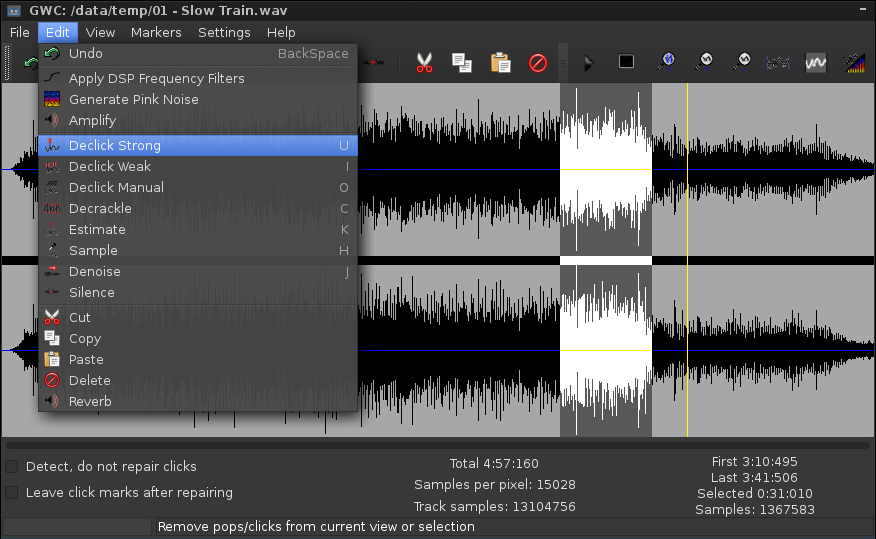
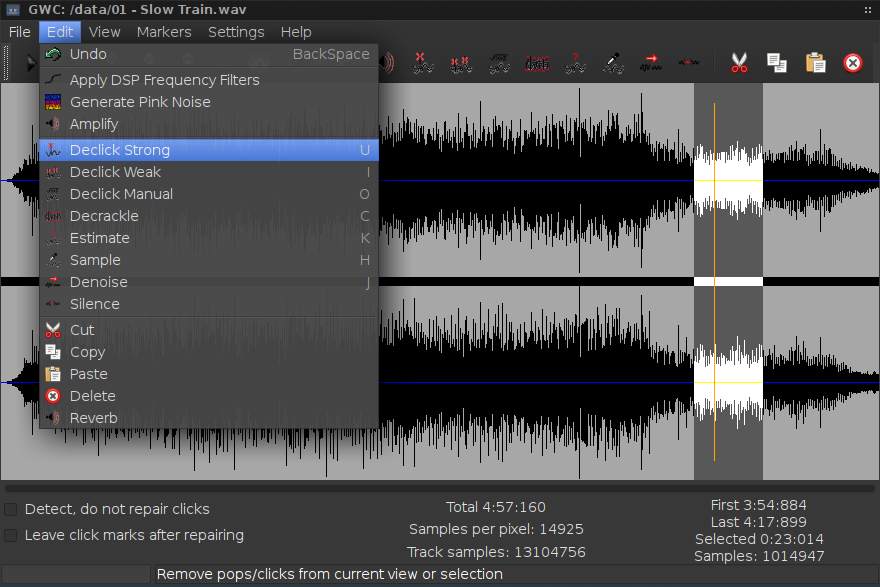
position cursor fixes
fix: set current position by rightclick is now restricted to
       the region of interest
  fix: Open File - allow WAV only, display errors in the statusbar
  change: position cursor is now shorter and in orange color

Changed region(s): [[0.0, 0.0, 1.0, 1.0], [0.0308, 0.8609, 0.2774, 0.9202], [0.9863, 0.0, 1.0, 0.0297]]

diff --git a/src/drawing.c b/src/drawing.c
@@ -66,6 +66,7 @@ GdkColor *orange_color = &orange_gdk_color ;
 GdkColor *white_color = &white_gdk_color ;
 GdkColor *grey_color = &grey_gdk_color ;
 GdkColor *black_color = &black_gdk_color ;
+GdkColor *cursor_color = &orange_gdk_color;
 
 /*
 #define highlight_color white_color
@@ -132,14 +133,13 @@ draw_a_line(GdkGC *gc, gint x1, gint y1, gint x2, gint y2, GdkColor *color, int 
        }
 }
 
-/* a utility function to draw a line */
+// paint playback position cursor
 static void
-draw_a_cursor_line(GdkGC *gc,
-	    gint x1, gint y1, gint x2, gint y2, GdkColor *color, int end_shapes)
+draw_cursor_line(GdkGC *gc, gint x, gint l, GdkColor *color)
 {
 	gdk_gc_set_foreground(gc, color) ;
-        if (x1 > SHRT_MIN && x1 < SHRT_MAX)
- 	   gdk_draw_line(highlight_pixmap, gc, x1,y1,x2,y2) ;
+        if (x > SHRT_MIN && x < SHRT_MAX)
+ 	   gdk_draw_line(highlight_pixmap, gc, x, 20, x, l-20);
 
 }
 
@@ -275,12 +275,18 @@ int audio_area_button_event(GtkWidget *c, GdkEventButton *event, gpointer data)
 {
     d_print("Event-type: %ld, button: %ld\n", event->type, event->button);
     if (event->type == GDK_BUTTON_PRESS  &&  event->button == 3) {
-      /* single click with the right mouse button */
+      // single click with the right mouse button
       if (audio_playback == FALSE) {
 	// set playback position
-	playback_startplay_position = pixel_to_sample(&audio_view, (int)event->x);
-	audio_view.cursor_position = playback_startplay_position;
-	main_redraw(TRUE, TRUE);
+	long new_position = pixel_to_sample(&audio_view, (int)event->x);
+	long first, last;
+	get_region_of_interest(&first, &last, &audio_view);
+	// only allow to set position within the region of interest
+	if ((new_position >= first) && (new_position < last)) {
+		playback_startplay_position = new_position;
+		audio_view.cursor_position = playback_startplay_position;
+		main_redraw(TRUE, TRUE);
+	}
       }
     } else if (event->type == GDK_BUTTON_PRESS  &&  event->button == 1) {
 	first_pick_x = last_pick_x = (int)event->x ;
@@ -806,17 +812,12 @@ ly2_tbl[0] = 99999999;
     view_scale =  view_scale_save ;
 }
 
-void paint_screen_with_highlight(struct view *v, GtkWidget *da, int y1, int y2, int cursor_flag)
+void paint_screen_with_highlight(struct view *v, GtkWidget *da, int y1, int y2)
 {
     int x = sample_to_pixel(v, v->cursor_position) ;
     GdkGC *MyGC = gdk_gc_new(da->window) ;
 
-    gdk_draw_pixmap(highlight_pixmap,
-	   da->style->fg_gc[GTK_WIDGET_STATE (da)],
-	   audio_pixmap,
-	   0,0,
-	   0,0,
-	   v->canvas_width, v->canvas_height);
+    gdk_draw_pixmap(highlight_pixmap, da->style->fg_gc[GTK_WIDGET_STATE (da)], audio_pixmap, 0, 0, 0, 0, v->canvas_width, v->canvas_height);
 
     if(v->selection_region == TRUE) {
 	gint minx = region_select_min_x ;
@@ -828,36 +829,14 @@ void paint_screen_with_highlight(struct view *v, GtkWidget *da, int y1, int y2, 
 	else
 	    draw_a_highlight_rect(MyGC, minx, 0, maxx, v->canvas_height-1, highlight_color) ;
     }
-    //if(cursor_flag == TRUE) {
-/*  	draw_a_cursor_line(MyGC, x-4, y1+4, x-4, y2-4, yellow_color, 0) ;  */
-/*  	draw_a_cursor_line(MyGC, x-3, y1+3, x-3, y2-3, yellow_color, 0) ;  */
-/*  	draw_a_cursor_line(MyGC, x-2, y1+2, x-2, y2-2, yellow_color, 0) ;  */
-/*  	draw_a_cursor_line(MyGC, x-1, y1+1, x-1, y2-1, yellow_color, 0) ;  */
-/*  	draw_a_cursor_line(MyGC, x+0, y1+0, x+0, y2+0, yellow_color, 0) ;  */
-        last_cursor_x = x;
-        /**************** This is also in redraw *******************/
-        gdk_draw_pixmap(cursor_pixmap,
-	   da->style->fg_gc[GTK_WIDGET_STATE (da)],
-	   highlight_pixmap,
-	   x,0,
-	   0,0,
-	   1, v->canvas_height);
-	draw_a_cursor_line(MyGC, x+0, 0, x+0, v->canvas_height-1, yellow_color, 0) ;
-/*  	draw_a_cursor_line(MyGC, x+1, y1+1, x+1, y2-1, yellow_color, 0) ;  */
-/*  	draw_a_cursor_line(MyGC, x+2, y1+2, x+2, y2-2, yellow_color, 0) ;  */
-/*  	draw_a_cursor_line(MyGC, x+3, y1+3, x+3, y2-3, yellow_color, 0) ;  */
-/*  	draw_a_cursor_line(MyGC, x+4, y1+4, x+4, y2-4, yellow_color, 0) ;  */
-/*
-    } else {
-       last_cursor_x = -1;   
-    }
-*/
-    gdk_draw_pixmap(da->window,
-	   da->style->fg_gc[GTK_WIDGET_STATE (da)],
-	   highlight_pixmap,
-	   0,0,
-	   0,0,
-	   v->canvas_width, v->canvas_height);
+
+    // redraw current_playback_position cursor
+    last_cursor_x = x;
+    // This is also in redraw
+    gdk_draw_pixmap(cursor_pixmap, da->style->fg_gc[GTK_WIDGET_STATE (da)], highlight_pixmap, x, 0, 0, 0, 1, v->canvas_height);
+    draw_cursor_line(MyGC, x, v->canvas_height, cursor_color);
+
+    gdk_draw_pixmap(da->window, da->style->fg_gc[GTK_WIDGET_STATE (da)], highlight_pixmap, 0,0, 0,0, v->canvas_width, v->canvas_height);
     gdk_gc_unref(MyGC) ;
 }
     
@@ -891,54 +870,31 @@ void redraw(struct view *v, struct sound_prefs *p, GtkWidget *da, int cursor_fla
 
     MyGC = gdk_gc_new(da->window) ;
 
-    // paint cursor every time
-    if(v->cursor_position >= v->first_sample && v->cursor_position <= v->last_sample) {
-	int prev_x = sample_to_pixel(v, v->prev_cursor_position) ;
-	int x = sample_to_pixel(v, v->cursor_position) ;
-	if(x != prev_x) {
-	   if (last_cursor_x == -1) {
-	       paint_screen_with_highlight(v, da, y1, y2, cursor_flag) ;
-	   } else {
-	       int x = sample_to_pixel(v, v->cursor_position) ;
-
-	       /****** This is also in  paint_screen_with_highlight *******/
-
-	       gdk_draw_pixmap(highlight_pixmap,
-		   da->style->fg_gc[GTK_WIDGET_STATE (da)],
-		   cursor_pixmap,
-		   0,0,
-		   last_cursor_x,0,
-		   1, v->canvas_height);
-	       gdk_draw_pixmap(da->window,
-		   da->style->fg_gc[GTK_WIDGET_STATE (da)],
-		   cursor_pixmap,
-		   0,0,
-		   last_cursor_x,0,
-		   1, v->canvas_height);
-	       gdk_draw_pixmap(cursor_pixmap,
-		   da->style->fg_gc[GTK_WIDGET_STATE (da)],
-		   highlight_pixmap,
-		   x,0,
-		   0,0,
-		   1, v->canvas_height);
-
-	       draw_a_cursor_line(MyGC, x+0, 0, x+0, v->canvas_height-1, yellow_color, 0) ;
-	       
-	       gdk_draw_pixmap(da->window,
-		   da->style->fg_gc[GTK_WIDGET_STATE (da)],
-		   highlight_pixmap,
-		   x,0,
-		   x,0,
-		   1, v->canvas_height);
-	       last_cursor_x = x;
-	   }
+    // always show cursor
+    int prev_x = sample_to_pixel(v, v->prev_cursor_position) ;
+    int x = sample_to_pixel(v, v->cursor_position) ;
+    if(x != prev_x) {
+	if (last_cursor_x == -1) {
+	  paint_screen_with_highlight(v, da, y1, y2);
 	} else {
+	  int x = sample_to_pixel(v, v->cursor_position) ;
+
+	  // This is also in  paint_screen_with_highlight
+	  gdk_draw_pixmap(highlight_pixmap, da->style->fg_gc[GTK_WIDGET_STATE (da)], cursor_pixmap, 0, 0, last_cursor_x, 0, 1, v->canvas_height);
+	  gdk_draw_pixmap(da->window, da->style->fg_gc[GTK_WIDGET_STATE (da)], cursor_pixmap, 0, 0, last_cursor_x, 0, 1, v->canvas_height);
+	  gdk_draw_pixmap(cursor_pixmap, da->style->fg_gc[GTK_WIDGET_STATE (da)], highlight_pixmap, x, 0, 0, 0, 1, v->canvas_height);
+	  
+	  // repaint cursor line
+	  draw_cursor_line(MyGC, x, v->canvas_height, cursor_color) ;
+
+	  gdk_draw_pixmap(da->window, da->style->fg_gc[GTK_WIDGET_STATE (da)], highlight_pixmap, x, 0, x, 0, 1, v->canvas_height);
+	  last_cursor_x = x;
 	}
 	v->prev_cursor_position = v->cursor_position ;
     }
+
     if (cursor_flag)
       return;
-
 
     if(first_time == 1) {
 	int i ;
@@ -1086,7 +1042,7 @@ void redraw(struct view *v, struct sound_prefs *p, GtkWidget *da, int cursor_fla
 	if (redraw_data)
 	    draw_sonogram(v, p, da, samples_per_pixel, cursor_flag);
         gdk_draw_rectangle(audio_pixmap, MyGC, TRUE, 0, y1, v->canvas_width-1, 8) ;
-	paint_screen_with_highlight(v, da, y1, y2, cursor_flag) ;
+	paint_screen_with_highlight(v, da, y1, y2);
     } else if (redraw_data) {
 	/* clear the background to grey */
 	draw_a_rect(MyGC, 0, 0, v->canvas_width-1, v->canvas_height-1, grey_color) ;
@@ -1200,15 +1156,7 @@ void redraw(struct view *v, struct sound_prefs *p, GtkWidget *da, int cursor_fla
 	}
     }
 
-/*      if(v->selection_region == TRUE) {  */
-	paint_screen_with_highlight(v, da, y1, y2, cursor_flag) ;
-/*      } else {  */
-/*  	rect.x = 0 ;  */
-/*  	rect.y = 0 ;  */
-/*  	rect.width = v->canvas_width ;  */
-/*  	rect.height = v->canvas_height ;  */
-/*  	gtk_widget_draw(da, &rect) ;  */
-/*      }  */
+    paint_screen_with_highlight(v, da, y1, y2);
 
     gdk_gc_set_foreground(da->style->white_gc, white_color) ;
     gdk_gc_set_foreground(da->style->black_gc, black_color) ;

diff --git a/src/gwc.c b/src/gwc.c
@@ -944,6 +944,9 @@ void gnome_flush(void)
  */
 gint update_cursor(gpointer data)
 {
+    if (!audio_playback)
+      return 0;
+    
     // find out where the playback is right now and update audio_view.cursor_position
     set_playback_cursor_position(&audio_view);
     
@@ -1138,7 +1141,7 @@ void pinknoise_cb(GtkWidget * widget, gpointer data)
 		pinknoise(&prefs, first, last,
 			      audio_view.channel_selection_mask);
 		save_sample_block_data(&prefs);
-		set_status_text("Amplify done.");
+		set_status_text("Amplify done");
 	    }
 	    main_redraw(FALSE, TRUE);
 	}
@@ -1308,7 +1311,7 @@ void split_audio_on_markers(GtkWidget * widget, gpointer data)
 
 	    if(last_sample-first_sample >= 10000) {
 		save_as_wavfile(filename, first_sample, last_sample) ;
-		printf("Save as wavfile %s %ld->%ld\n", filename, first_sample, last_sample) ;
+		d_print("Save as wavfile %s %ld->%ld\n", filename, first_sample, last_sample) ;
 		trackno++ ;
 	    }
 
@@ -1734,30 +1737,39 @@ void open_wave_filename(void)
 		main_redraw(FALSE, TRUE);
 	    } else {
 		file_is_open = FALSE;
-		warning("failed to open audio file");
 	    }
 	} else {
 	    strcpy(wave_filename, last_filename);
 	}
     } else {
 	file_is_open = FALSE;
-	warning("No file selected, or file format not recognized");
     }
 }
 
 void store_filename(GtkFileSelection * selector, gpointer user_data)
 {
-    strncpy(wave_filename,
-	   gtk_file_selection_get_filename(GTK_FILE_SELECTION
+    gchar strbuf[PATH_MAX+1];
+    strncpy(strbuf, gtk_file_selection_get_filename(GTK_FILE_SELECTION
 					   (file_selector)), PATH_MAX);
-
-    open_wave_filename();
-
+    char* ext = strrchr(strbuf, '.');
+    d_print("Selected file: %s\n", strbuf);
+    if (strcasecmp(ext, ".wav") == 0) {
+      strcpy(wave_filename, strbuf);
+      open_wave_filename();
+      if (file_is_open) {
+	  sprintf(strbuf, "File: %s", wave_filename);
+      } else {
+	  sprintf(strbuf, "Error opening file: %s", wave_filename);
+      }
+      set_status_text(strbuf);
+    } else {
+      set_status_text("File type not supported. Please open a 16bit 44.1kHz WAV file.");
     }
+}
 
-    void store_selection_filename(GtkFileSelection * selector,
-			      gpointer user_data)
-    {
+void store_selection_filename(GtkFileSelection * selector,
+			  gpointer user_data)
+{
 
     strncpy(save_selection_filename,
 	   gtk_file_selection_get_filename(GTK_FILE_SELECTION
@@ -1777,11 +1789,11 @@ void open_file_selection(GtkWidget * widget, gpointer data)
 
 	/* Create the selector */
 	file_selector =
-	    gtk_file_selection_new("Please select a file for editing.");
+	    gtk_file_selection_new("Select a WAV file:");
 
 	gtk_file_selection_set_filename(GTK_FILE_SELECTION(file_selector),
 					pathname);
-
+	
 	gtk_signal_connect(GTK_OBJECT
 			   (GTK_FILE_SELECTION(file_selector)->ok_button),
 			   "clicked", GTK_SIGNAL_FUNC(store_filename),

diff --git a/src/audio_util.c b/src/audio_util.c
@@ -617,10 +617,6 @@ int is_valid_audio_file(char *filename)
 	sf_close(sndfile) ;
 	audio_type = SNDFILE_TYPE ;
 	return 1 ;
-    } else {
-	char buf[180+PATH_MAX] ;
-	snprintf(buf, sizeof(buf), "Failed to open  %s, \'%s\'", filename, sf_strerror(NULL)) ;
-	warning(buf) ;
     }
 
     return 0 ;
